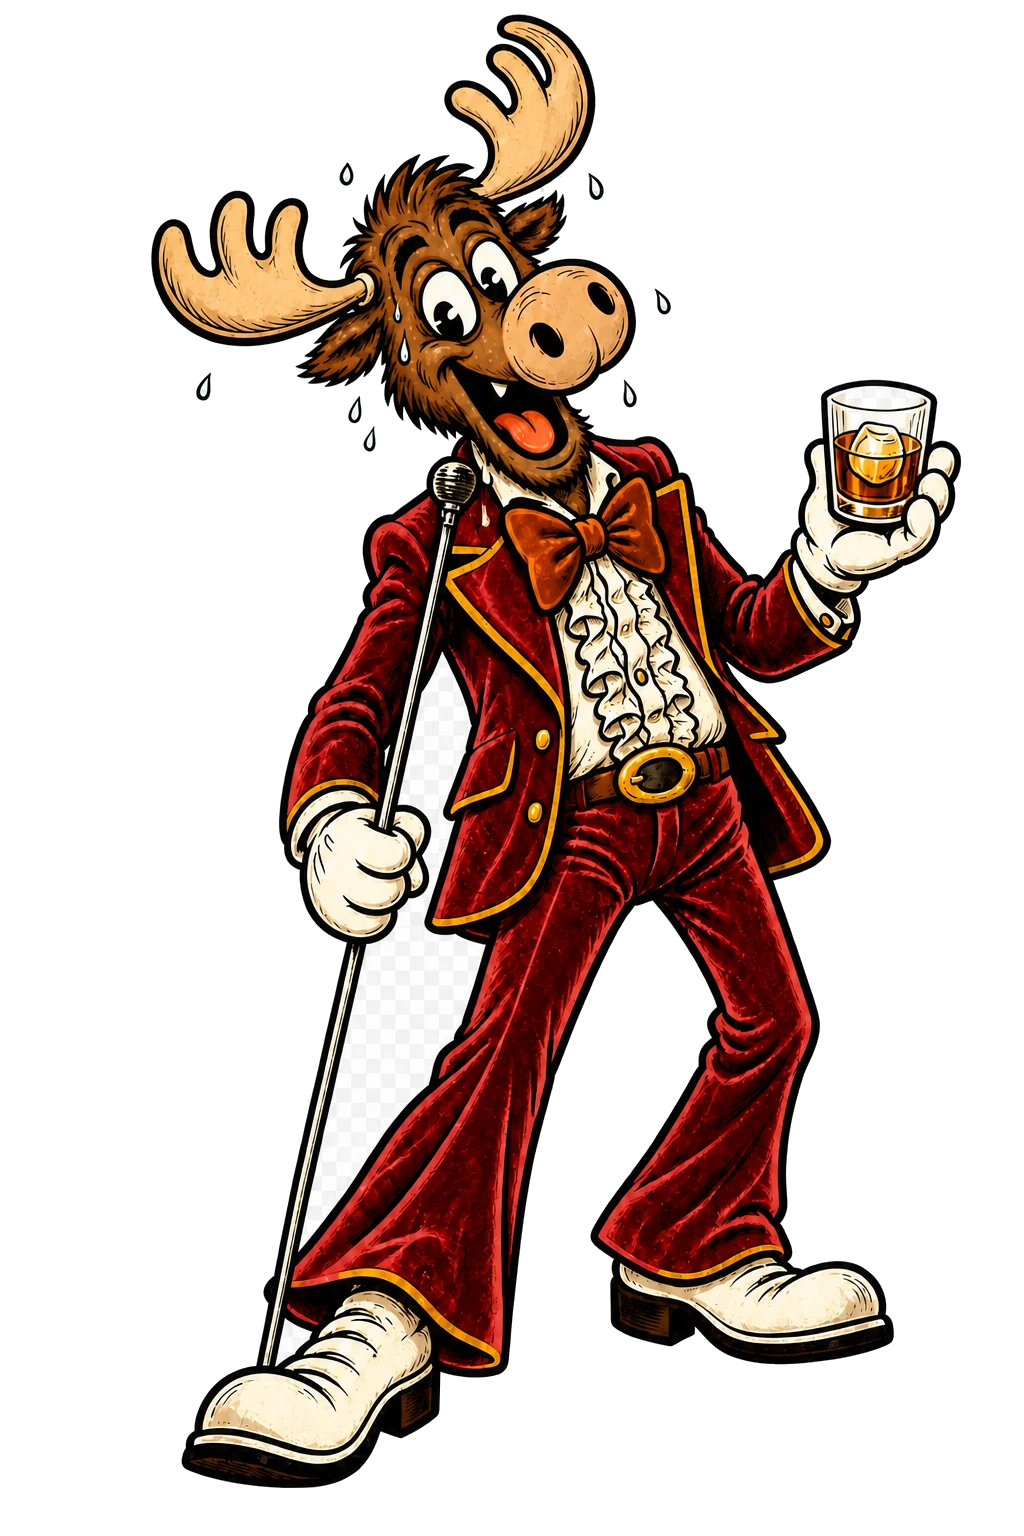
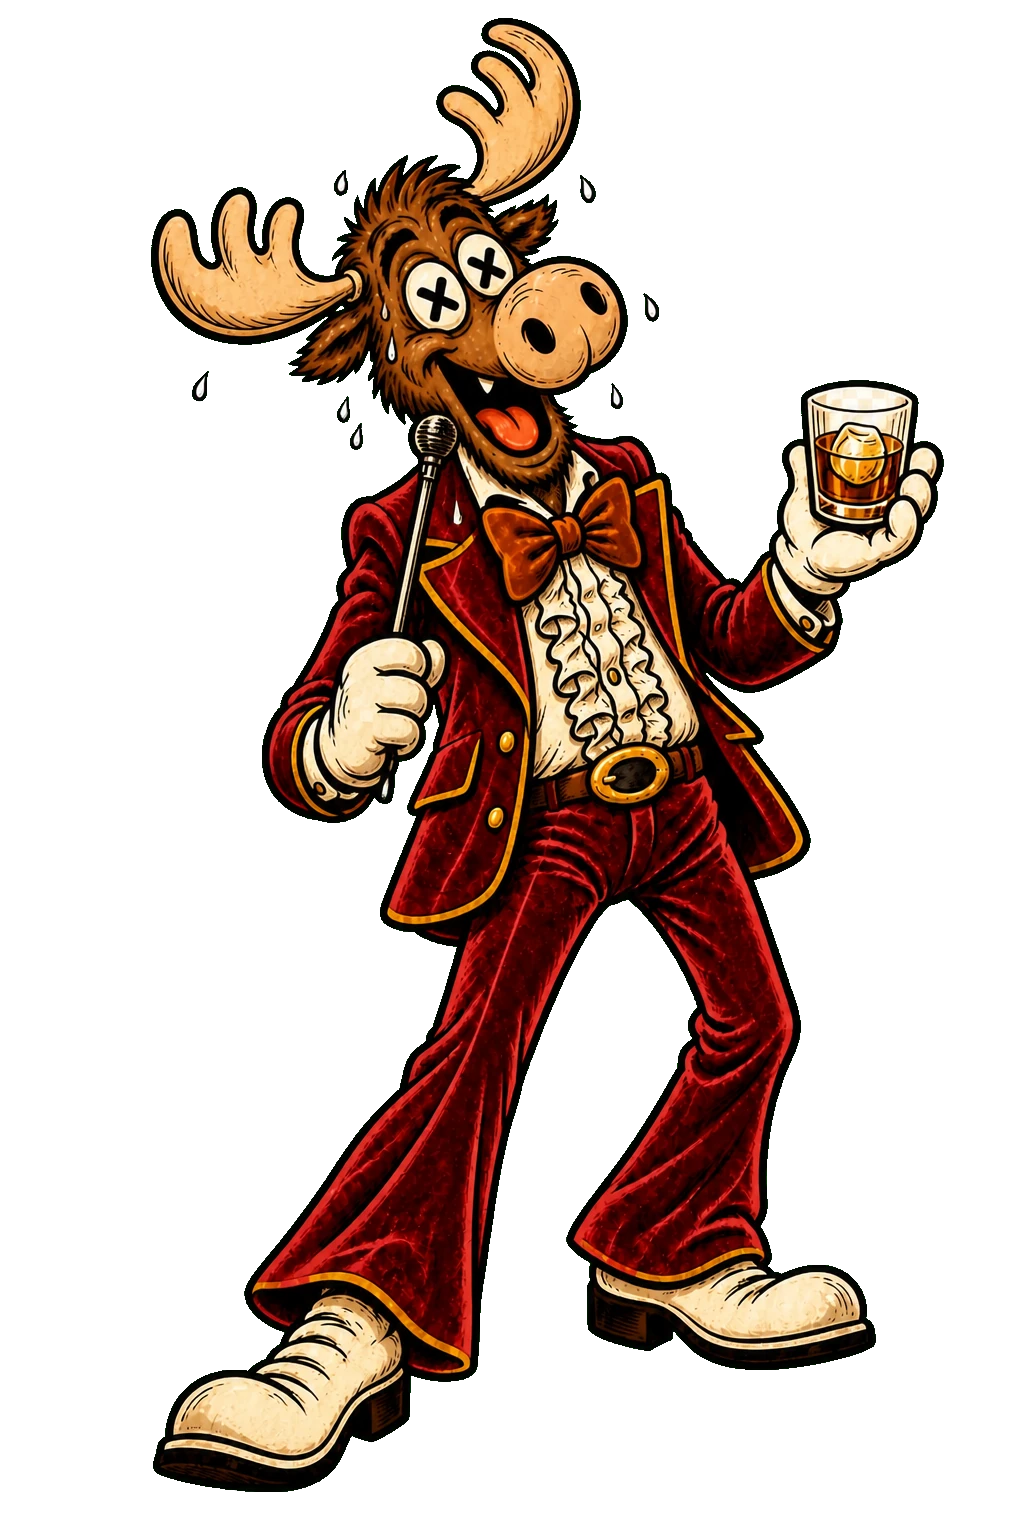
Add moonshiner Moose and drunken progress bottles

Changed region(s): [[0.125, 0.0, 0.9375, 0.9688]]

diff --git a/css/styles.css b/css/styles.css
@@ -473,7 +473,7 @@ body.scoreboard-mode .scoreboard-shell { width: 100vw; height: 100vh; height: 10
 .tv-contestant-strip > div { min-width: 0; display: flex; align-items: center; gap: calc(.4 * var(--tv-u)); padding: calc(.55 * var(--tv-u)); opacity: .55; border: 2px solid rgba(255,248,220,.34); border-radius: calc(.45 * var(--tv-u)); background: rgba(0,0,0,.25); }
 .tv-contestant-strip > div.is-joined { opacity: 1; color: #16120d; background: #e6b74e; border-color: #fff1b8; }
 .tv-contestant-strip strong { overflow: hidden; font-family: var(--font-condensed); font-size: calc(1 * var(--tv-u)); text-overflow: ellipsis; white-space: nowrap; }
-.tv-lobby-moose { width: 100%; height: 100%; object-fit: cover; object-position: 50% 18%; border: calc(.28 * var(--tv-u)) solid #f3d28d; border-radius: calc(1.1 * var(--tv-u)); box-shadow: 0 0 calc(2 * var(--tv-u)) rgba(0,0,0,.45); }
+.tv-lobby-moose { width: 100%; height: 100%; min-height: 0; object-fit: cover; object-position: 50% 12%; padding: calc(.22 * var(--tv-u)); border: calc(.32 * var(--tv-u)) solid #f3d28d; outline: calc(.16 * var(--tv-u)) solid #3d1710; outline-offset: calc(-.48 * var(--tv-u)); border-radius: calc(1.1 * var(--tv-u)); background: linear-gradient(145deg, #7f2c1d, #23100d); box-shadow: inset 0 0 calc(1.2 * var(--tv-u)) rgba(255,224,151,.24), 0 0 calc(2 * var(--tv-u)) rgba(0,0,0,.45); filter: saturate(1.05) contrast(1.02); }
 
 .tv-tasting-stage { display: grid; grid-template-columns: minmax(0, 1fr) calc(19 * var(--tv-u)); gap: calc(1 * var(--tv-u)); }
 .tv-progress-grid { min-width: 0; min-height: 0; display: grid; grid-template-columns: repeat(var(--player-columns), minmax(0, 1fr)); grid-auto-rows: minmax(0, 1fr); gap: calc(.65 * var(--tv-u)); }
@@ -488,8 +488,250 @@ body.scoreboard-mode .scoreboard-shell { width: 100vw; height: 100vh; height: 10
 .tv-glass-pips span { height: calc(2.1 * var(--tv-u)); display: grid; place-items: center; border: 2px solid rgba(255,245,214,.45); border-radius: 50% 50% 42% 42%; color: rgba(255,245,214,.6); background: rgba(0,0,0,.28); font-family: var(--font-display); font-size: calc(.85 * var(--tv-u)); }
 .tv-glass-pips span.is-done { color: #17130f; background: linear-gradient(#f8db84 0 45%, #ad5724 46% 100%); border-color: #fff3bd; box-shadow: 0 0 calc(.55 * var(--tv-u)) rgba(246,196,91,.62); }
 .is-ready .tv-glass-pips span { color: #17130f; border-color: #6d331c; }
-.tv-progress-track { height: calc(.72 * var(--tv-u)); overflow: hidden; border: 2px solid #120d0a; border-radius: 999px; background: rgba(0,0,0,.35); }
-.tv-progress-track i { display: block; height: 100%; background: linear-gradient(90deg, var(--red), var(--gold-light)); box-shadow: 0 0 calc(.8 * var(--tv-u)) var(--gold); transition: width .45s ease; }
+.tv-progress-bottle {
+  position: relative;
+  isolation: isolate;
+  width: calc(3.6 * var(--tv-u));
+  height: calc(4.8 * var(--tv-u));
+  margin: calc(1.12 * var(--tv-u)) auto calc(.92 * var(--tv-u));
+  border: calc(.2 * var(--tv-u)) solid #100c09;
+  border-radius: 38% 38% 24% 24% / 19% 19% 12% 12%;
+  color: #17130f;
+  background:
+    linear-gradient(90deg, rgba(255,255,255,.52), rgba(255,248,217,.16) 24% 72%, rgba(96,54,27,.18)),
+    rgba(237,217,166,.62);
+  box-shadow:
+    inset calc(.3 * var(--tv-u)) 0 calc(.24 * var(--tv-u)) rgba(255,255,255,.42),
+    inset calc(-.28 * var(--tv-u)) 0 calc(.3 * var(--tv-u)) rgba(45,24,14,.2),
+    0 calc(.25 * var(--tv-u)) 0 rgba(0,0,0,.42);
+  transform-origin: 50% 100%;
+}
+.tv-progress-bottle::before {
+  content: "";
+  position: absolute;
+  left: 50%;
+  top: calc(-1.18 * var(--tv-u));
+  z-index: -1;
+  width: calc(1.38 * var(--tv-u));
+  height: calc(1.55 * var(--tv-u));
+  transform: translateX(-50%);
+  border: calc(.18 * var(--tv-u)) solid #100c09;
+  border-bottom: 0;
+  border-radius: calc(.24 * var(--tv-u)) calc(.24 * var(--tv-u)) 0 0;
+  background: linear-gradient(90deg, rgba(255,255,255,.48), rgba(226,202,146,.68) 54%, rgba(74,39,20,.18));
+  box-shadow: inset calc(.18 * var(--tv-u)) 0 rgba(255,255,255,.35);
+}
+.tv-progress-bottle::after {
+  content: "";
+  position: absolute;
+  left: 50%;
+  top: calc(-1.35 * var(--tv-u));
+  z-index: 5;
+  width: calc(1.62 * var(--tv-u));
+  height: calc(.36 * var(--tv-u));
+  transform: translateX(-50%);
+  border: calc(.14 * var(--tv-u)) solid #100c09;
+  border-radius: calc(.18 * var(--tv-u));
+  background: repeating-linear-gradient(90deg, #a33a27 0 calc(.18 * var(--tv-u)), #e7b14b calc(.18 * var(--tv-u)) calc(.34 * var(--tv-u)));
+  box-shadow: 0 calc(.12 * var(--tv-u)) 0 rgba(0,0,0,.28);
+}
+.tv-progress-bottle-liquid {
+  position: absolute;
+  inset: auto calc(.12 * var(--tv-u)) calc(.12 * var(--tv-u));
+  z-index: 1;
+  height: var(--bottle-fill, 0%);
+  max-height: calc(100% - .24 * var(--tv-u));
+  overflow: visible;
+  border-radius: 26% 26% 18% 18% / 10% 10% 9% 9%;
+  background:
+    radial-gradient(circle at 28% 28%, rgba(255,224,137,.62) 0 4%, transparent 5%),
+    linear-gradient(90deg, #b95c21, #e7a13a 42%, #8f3719 100%);
+  box-shadow: inset calc(.22 * var(--tv-u)) 0 rgba(255,222,132,.35), inset calc(-.18 * var(--tv-u)) 0 rgba(74,24,10,.25);
+  transition: height .55s cubic-bezier(.2,.75,.25,1);
+}
+.tv-progress-bottle-liquid::before {
+  content: "";
+  position: absolute;
+  inset: calc(-.13 * var(--tv-u)) 0 auto;
+  height: calc(.26 * var(--tv-u));
+  border: calc(.08 * var(--tv-u)) solid rgba(94,35,15,.72);
+  border-radius: 50%;
+  background: #f0b34b;
+  box-shadow: 0 0 calc(.3 * var(--tv-u)) rgba(244,177,64,.45);
+}
+.tv-progress-bottle-face {
+  position: absolute;
+  left: 50%;
+  top: 29%;
+  z-index: 3;
+  width: calc(2.35 * var(--tv-u));
+  height: calc(2.15 * var(--tv-u));
+  transform: translateX(-50%);
+}
+.tv-progress-bottle-face::before,
+.tv-progress-bottle-face::after {
+  content: "";
+  position: absolute;
+  top: calc(1.02 * var(--tv-u));
+  width: calc(.38 * var(--tv-u));
+  height: calc(.2 * var(--tv-u));
+  opacity: 0;
+  border-radius: 50%;
+  background: rgba(190,50,37,.64);
+}
+.tv-progress-bottle-face::before { left: 0; }
+.tv-progress-bottle-face::after { right: 0; }
+.tv-progress-bottle.warming .tv-progress-bottle-face::before,
+.tv-progress-bottle.warming .tv-progress-bottle-face::after,
+.tv-progress-bottle.tipsy .tv-progress-bottle-face::before,
+.tv-progress-bottle.tipsy .tv-progress-bottle-face::after,
+.tv-progress-bottle.wobbly .tv-progress-bottle-face::before,
+.tv-progress-bottle.wobbly .tv-progress-bottle-face::after { opacity: 1; }
+.tv-progress-bottle-eyes { display: flex; justify-content: center; gap: calc(.36 * var(--tv-u)); }
+.tv-progress-bottle-eyes > i {
+  position: relative;
+  width: calc(.68 * var(--tv-u));
+  height: calc(.78 * var(--tv-u));
+  border: calc(.1 * var(--tv-u)) solid #100c09;
+  border-radius: 52% 48% 50% 47%;
+  background: #fff9df;
+  box-shadow: calc(.06 * var(--tv-u)) calc(.07 * var(--tv-u)) 0 rgba(0,0,0,.2);
+}
+.tv-progress-bottle-eyes > i::after {
+  content: "";
+  position: absolute;
+  left: 50%;
+  top: 52%;
+  width: calc(.22 * var(--tv-u));
+  height: calc(.26 * var(--tv-u));
+  transform: translate(-50%, -50%);
+  border-radius: 50%;
+  background: #100c09;
+}
+.tv-progress-bottle-mouth {
+  position: absolute;
+  left: 50%;
+  top: calc(1.02 * var(--tv-u));
+  width: calc(.92 * var(--tv-u));
+  height: calc(.48 * var(--tv-u));
+  transform: translateX(-50%);
+  border-bottom: calc(.16 * var(--tv-u)) solid #100c09;
+  border-radius: 0 0 52% 52%;
+}
+.tv-progress-bottle-mouth::after { content: ""; display: none; }
+.tv-progress-bottle-arms,
+.tv-progress-bottle-legs { position: absolute; inset: 0; z-index: 4; pointer-events: none; }
+.tv-progress-bottle-arms > i {
+  position: absolute;
+  top: 53%;
+  width: calc(1.72 * var(--tv-u));
+  height: calc(.16 * var(--tv-u));
+  transform-origin: center;
+  border-radius: 999px;
+  background: #100c09;
+}
+.tv-progress-bottle-arms > i:first-child { right: 92%; transform: rotate(16deg); }
+.tv-progress-bottle-arms > i:last-child { left: 92%; transform: rotate(-16deg); }
+.tv-progress-bottle-arms > i::after {
+  content: "";
+  position: absolute;
+  top: 50%;
+  width: calc(.46 * var(--tv-u));
+  height: calc(.4 * var(--tv-u));
+  transform: translateY(-50%);
+  border: calc(.1 * var(--tv-u)) solid #100c09;
+  border-radius: 50%;
+  background: #fff6d9;
+}
+.tv-progress-bottle-arms > i:first-child::after { left: calc(-.24 * var(--tv-u)); }
+.tv-progress-bottle-arms > i:last-child::after { right: calc(-.24 * var(--tv-u)); }
+.tv-progress-bottle-legs > i {
+  position: absolute;
+  top: 94%;
+  width: calc(.16 * var(--tv-u));
+  height: calc(.82 * var(--tv-u));
+  transform-origin: top;
+  border-radius: 999px;
+  background: #100c09;
+}
+.tv-progress-bottle-legs > i:first-child { left: 33%; transform: rotate(9deg); }
+.tv-progress-bottle-legs > i:last-child { right: 33%; transform: rotate(-9deg); }
+.tv-progress-bottle-legs > i::after {
+  content: "";
+  position: absolute;
+  bottom: calc(-.04 * var(--tv-u));
+  width: calc(.68 * var(--tv-u));
+  height: calc(.28 * var(--tv-u));
+  border: calc(.1 * var(--tv-u)) solid #100c09;
+  border-radius: 50% 60% 42% 45%;
+  background: #fff6d9;
+}
+.tv-progress-bottle-legs > i:first-child::after { right: calc(-.08 * var(--tv-u)); }
+.tv-progress-bottle-legs > i:last-child::after { left: calc(-.08 * var(--tv-u)); transform: scaleX(-1); }
+.tv-progress-bottle-value {
+  position: absolute;
+  left: 50%;
+  bottom: calc(.35 * var(--tv-u));
+  z-index: 4;
+  min-width: calc(2.35 * var(--tv-u));
+  padding: calc(.08 * var(--tv-u)) calc(.18 * var(--tv-u));
+  transform: translateX(-50%) rotate(-1deg);
+  border: calc(.08 * var(--tv-u)) solid #100c09;
+  border-radius: calc(.15 * var(--tv-u));
+  color: #26150d;
+  background: #f8df9e;
+  font-family: var(--font-display);
+  font-size: calc(.82 * var(--tv-u));
+  line-height: 1;
+  text-align: center;
+  box-shadow: 0 calc(.08 * var(--tv-u)) 0 rgba(0,0,0,.25);
+}
+.tv-progress-bottle.warming { transform: rotate(-1deg); }
+.tv-progress-bottle.warming .tv-progress-bottle-eyes > i::after { transform: translate(-42%, -38%); }
+.tv-progress-bottle.warming .tv-progress-bottle-mouth { width: calc(.72 * var(--tv-u)); height: calc(.38 * var(--tv-u)); }
+.tv-progress-bottle.tipsy { transform: rotate(2deg); }
+.tv-progress-bottle.tipsy .tv-progress-bottle-eyes > i:first-child { transform: rotate(9deg) translateY(calc(.08 * var(--tv-u))); }
+.tv-progress-bottle.tipsy .tv-progress-bottle-eyes > i:last-child { transform: rotate(-12deg) translateY(calc(-.04 * var(--tv-u))); }
+.tv-progress-bottle.tipsy .tv-progress-bottle-eyes > i:first-child::after { left: 62%; top: 62%; }
+.tv-progress-bottle.tipsy .tv-progress-bottle-eyes > i:last-child::after { left: 36%; top: 38%; }
+.tv-progress-bottle.tipsy .tv-progress-bottle-mouth { transform: translateX(-50%) rotate(12deg); }
+.tv-progress-bottle.tipsy .tv-progress-bottle-arms > i:first-child { transform: rotate(-20deg); }
+.tv-progress-bottle.tipsy .tv-progress-bottle-arms > i:last-child { transform: rotate(32deg); }
+.tv-progress-bottle.wobbly { animation: tvBottleWobble 1.8s ease-in-out infinite; }
+.tv-progress-bottle.wobbly .tv-progress-bottle-eyes > i:first-child { transform: rotate(-15deg) scaleY(.72); }
+.tv-progress-bottle.wobbly .tv-progress-bottle-eyes > i:last-child { transform: rotate(13deg); }
+.tv-progress-bottle.wobbly .tv-progress-bottle-eyes > i:first-child::after { left: 66%; }
+.tv-progress-bottle.wobbly .tv-progress-bottle-eyes > i:last-child::after { left: 31%; top: 64%; }
+.tv-progress-bottle.wobbly .tv-progress-bottle-mouth { width: calc(.82 * var(--tv-u)); height: calc(.58 * var(--tv-u)); transform: translateX(-50%) rotate(-13deg); border: calc(.14 * var(--tv-u)) solid #100c09; border-top-width: calc(.08 * var(--tv-u)); border-radius: 48%; background: rgba(122,35,25,.64); }
+.tv-progress-bottle.wobbly .tv-progress-bottle-arms > i:first-child { transform: rotate(-39deg); }
+.tv-progress-bottle.wobbly .tv-progress-bottle-arms > i:last-child { transform: rotate(42deg); }
+.tv-progress-bottle.wobbly .tv-progress-bottle-legs > i:first-child { transform: rotate(24deg); }
+.tv-progress-bottle.wobbly .tv-progress-bottle-legs > i:last-child { transform: rotate(-3deg); }
+.tv-progress-bottle.hammered { animation: tvBottleHammered 1.25s ease-in-out infinite; }
+.tv-progress-bottle.hammered .tv-progress-bottle-face { top: 23%; z-index: 5; }
+.tv-progress-bottle.hammered .tv-progress-bottle-face::before,
+.tv-progress-bottle.hammered .tv-progress-bottle-face::after { opacity: .8; }
+.tv-progress-bottle.hammered .tv-progress-bottle-eyes > i { width: calc(.72 * var(--tv-u)); height: calc(.72 * var(--tv-u)); border: 0; border-radius: 0; background: transparent; box-shadow: none; }
+.tv-progress-bottle.hammered .tv-progress-bottle-eyes > i::before,
+.tv-progress-bottle.hammered .tv-progress-bottle-eyes > i::after {
+  content: "";
+  position: absolute;
+  left: 50%;
+  top: 50%;
+  width: 100%;
+  height: calc(.16 * var(--tv-u));
+  transform: translate(-50%, -50%) rotate(45deg);
+  border-radius: 999px;
+  background: #100c09;
+}
+.tv-progress-bottle.hammered .tv-progress-bottle-eyes > i::after { transform: translate(-50%, -50%) rotate(-45deg); }
+.tv-progress-bottle.hammered .tv-progress-bottle-mouth { top: calc(.88 * var(--tv-u)); width: calc(1.08 * var(--tv-u)); height: calc(.72 * var(--tv-u)); transform: translateX(-50%) rotate(6deg); border: calc(.15 * var(--tv-u)) solid #100c09; border-radius: 48%; background: #67231d; }
+.tv-progress-bottle.hammered .tv-progress-bottle-mouth::after { display: block; position: absolute; left: 50%; bottom: calc(-.4 * var(--tv-u)); width: calc(.62 * var(--tv-u)); height: calc(.5 * var(--tv-u)); transform: translateX(-42%) rotate(10deg); border: calc(.1 * var(--tv-u)) solid #100c09; border-top: 0; border-radius: 0 0 55% 55%; background: #dc554b; }
+.tv-progress-bottle.hammered .tv-progress-bottle-value { bottom: calc(.12 * var(--tv-u)); }
+.tv-progress-bottle.hammered .tv-progress-bottle-arms > i:first-child { transform: rotate(30deg); }
+.tv-progress-bottle.hammered .tv-progress-bottle-arms > i:last-child { transform: rotate(-28deg); }
+.tv-progress-bottle.hammered .tv-progress-bottle-legs > i:first-child { transform: rotate(31deg); }
+.tv-progress-bottle.hammered .tv-progress-bottle-legs > i:last-child { transform: rotate(-28deg); }
 .tv-player-progress > small { overflow: hidden; color: #e7d6b3; font-family: var(--font-condensed); font-size: calc(.72 * var(--tv-u)); font-weight: 800; text-overflow: ellipsis; text-transform: uppercase; white-space: nowrap; }
 .is-ready.tv-player-progress > small { color: #481a10; }
 .tv-tasting-rail { min-width: 0; min-height: 0; display: grid; grid-template-rows: minmax(0, 1fr) auto auto; align-items: center; gap: calc(.8 * var(--tv-u)); padding: calc(.8 * var(--tv-u)); text-align: center; border: calc(.24 * var(--tv-u)) solid #d8a847; border-radius: calc(.8 * var(--tv-u)); background: rgba(44,13,15,.93); }
@@ -650,6 +892,16 @@ body.scoreboard-mode .tv-finish-card > small { font-size: calc(.82 * var(--tv-u)
 
 @keyframes tvBulbs { 0%,100% { border-color: #f4c45b; filter: brightness(.9); } 50% { border-color: #fff3ba; filter: brightness(1.45); } }
 @keyframes tvReadyPulse { 0%,100% { transform: scale(1); } 50% { transform: scale(1.015); } }
+@keyframes tvBottleWobble {
+  0%,100% { transform: translateY(0) rotate(-3deg); }
+  30% { transform: translateY(calc(-.08 * var(--tv-u))) rotate(3deg); }
+  62% { transform: translateY(calc(.04 * var(--tv-u))) rotate(-1deg); }
+}
+@keyframes tvBottleHammered {
+  0%,100% { transform: translateY(0) rotate(-5deg); }
+  35% { transform: translateY(calc(-.1 * var(--tv-u))) rotate(5deg); }
+  68% { transform: translateY(calc(.05 * var(--tv-u))) rotate(-2deg); }
+}
 @keyframes tvHostBob { 0%,100% { transform: rotate(-.6deg) translateY(0); } 50% { transform: rotate(.7deg) translateY(calc(-.3 * var(--tv-u))); } }
 @keyframes tvQuestion { 0%,100% { transform: rotate(-3deg) scale(1); } 50% { transform: rotate(3deg) scale(1.08); } }
 @keyframes tvRays { to { transform: rotate(360deg); } }
@@ -783,5 +1035,8 @@ body.scoreboard-mode .tv-finish-card > small { font-size: calc(.82 * var(--tv-u)
 }
 
 @media (prefers-reduced-motion: reduce) {
+  body.scoreboard-mode .tv-progress-bottle.wobbly,
+  body.scoreboard-mode .tv-progress-bottle.hammered { animation: none; transform: none; }
+  body.scoreboard-mode .tv-progress-bottle-liquid { transition: none; }
   *, *::before, *::after { animation-duration: .01ms !important; animation-iteration-count: 1 !important; scroll-behavior: auto !important; transition-duration: .01ms !important; }
 }

diff --git a/js/scoreboard.js b/js/scoreboard.js
@@ -75,7 +75,7 @@ function renderLobbyStage(calc) {
             </div>`).join('')}
         </div>
       </div>
-      <img class="tv-lobby-moose" src="./assets/moose.webp" alt="The Drunk Moose welcomes the contestants">
+      <img class="tv-lobby-moose" src="./assets/moose-moonshiner.webp" alt="The Drunk Moose moonshiner welcomes contestants beside his copper still">
     </section>`;
 }
 
@@ -98,15 +98,33 @@ function renderTastingStage(calc) {
 function renderPlayerProgress(player, letters, index) {
   const completed = new Set(player.tastingCompletedLetters || []);
   const percent = boundedPercent(player.tastingProgress);
+  const mood = progressBottleMood(percent);
   return `
     <article class="tv-player-progress ${player.tastingComplete ? 'is-ready' : ''}" style="--player-index:${index}">
       <div class="tv-player-heading"><span>${index + 1}</span><strong>${esc(player.name)}</strong><b>${player.tastingComplete ? 'LOCKED' : `${percent}%`}</b></div>
       <div class="tv-glass-pips" aria-label="${percent}% complete">
         ${letters.map((letter) => `<span class="${completed.has(letter) ? 'is-done' : ''}">${esc(letter)}</span>`).join('')}
       </div>
-      <div class="tv-progress-track"><i style="width:${percent}%"></i></div>
+      <div class="tv-progress-bottle ${mood}" style="--bottle-fill:${percent}%" role="progressbar" aria-label="${esc(player.name)} tasting progress" aria-valuemin="0" aria-valuemax="100" aria-valuenow="${percent}" aria-valuetext="${percent}% complete">
+        <span class="tv-progress-bottle-liquid" aria-hidden="true"></span>
+        <span class="tv-progress-bottle-face" aria-hidden="true">
+          <span class="tv-progress-bottle-eyes"><i></i><i></i></span>
+          <span class="tv-progress-bottle-mouth"></span>
+        </span>
+        <span class="tv-progress-bottle-arms" aria-hidden="true"><i></i><i></i></span>
+        <span class="tv-progress-bottle-legs" aria-hidden="true"><i></i><i></i></span>
+        <strong class="tv-progress-bottle-value">${percent}%</strong>
+      </div>
       <small>${player.tastingComplete ? 'Ready for the next round' : 'Nosing · guessing · making things up'}</small>
     </article>`;
+}
+
+function progressBottleMood(percent) {
+  if (percent >= 100) return 'hammered';
+  if (percent >= 75) return 'wobbly';
+  if (percent >= 50) return 'tipsy';
+  if (percent >= 25) return 'warming';
+  return 'sober';
 }
 
 function renderHigherLowerStage(game, calc) {
@@ -122,7 +140,7 @@ function renderHigherLowerStage(game, calc) {
       </div>
       <aside class="tv-hl-host">
         <div class="tv-hl-ready"><strong>${ready}<small>/${calc.playerResults.length}</small></strong><span>crowd cards locked</span></div>
-        <img src="./assets/moose-game-show-host.webp" alt="The Drunk Moose in a sweaty velvet suit holding a long game-show wand microphone and a glass of bourbon">
+        <img src="./assets/moose-game-show-host.webp" alt="The Drunk Moose with X-shaped eyes holds bourbon and a long game-show wand microphone in his sweaty velvet suit">
         <p>“The crowd has opinions. Accuracy remains under investigation.”</p>
       </aside>
     </section>`;

diff --git a/sw.js b/sw.js
@@ -1,4 +1,4 @@
-const CACHE_NAME = 'blind-bourbon-derby-v6-rubber-hose-art';
+const CACHE_NAME = 'blind-bourbon-derby-v7-moonshiner-progress';
 const APP_SHELL = [
   './',
   './index.html',
@@ -14,6 +14,7 @@ const APP_SHELL = [
   './assets/derby-scorecard.webp',
   './assets/moose.webp',
   './assets/moose-bourbon-creek.webp',
+  './assets/moose-moonshiner.webp',
   './assets/moose-game-show-host.webp',
   './assets/biggest-loser-poop.webp',
   './assets/favicon.png',
